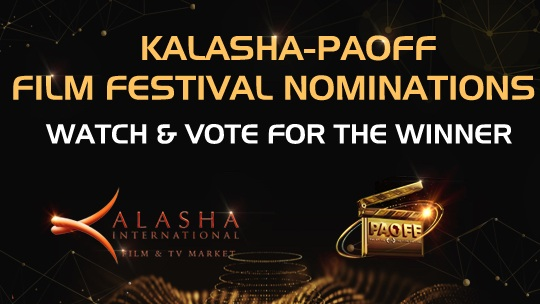
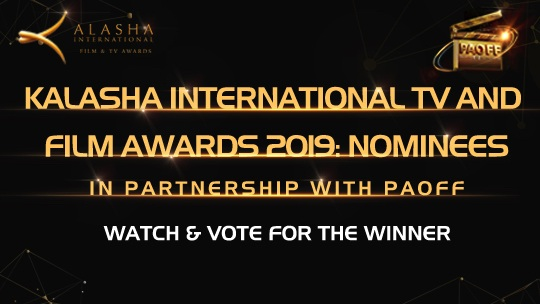
肯尼亚电影节更换banner及about文案

diff --git a/languages/fy.js b/languages/fy.js
@@ -14,15 +14,15 @@ export default {
     vote_h5_2: 'Regardez des vidéos sur l\'application StarTimes ON maintenant pour découvrir de nouveaux horizons.',
     notnow_btn: 'PAS MAINTENANT',
     about_btn: 'À propos',
-    about: '<p>Les prix internationaux du film et de la télévision en ligne KALASHA-PAOFF sont co-animés par la Kenya Film Commission et StarTimes, qui invitent tous les utilisateurs en ligne à voter pour leurs favoris via StarTimes ON, la seule application de vote en ligne pour les prix.</p><p>Soutenez les vedettes et les projets que vous aimez, pour renforcez la culture africaine que vous reconnaitrez dans cet incroyable événement. </p>',
+    about: '<P>Kalasha International Film and TV awards 2019 is organised by Kenya Film Commission in conjunction with StarTimes Kenya. Members of the public are encouraged to watch and vote for their favorite films, documentaries, actors, actresses and producers on StarTimes ON, the only screening and voting platform for the awards. Let\'s all support our film industry through voting for our favorite nominees!</P><P>Voting Rule:</P><P>StarTimes ON will be the only online voting platform for the awards. To cast a vote for either award, you must download & install StarTimes ON mobile app.</P><P>You can only vote once per category.</P><P>Voting Period: Voting for the Awards begins at 0:00 a.m. GMT on Nov 1, 2019, and ends at 12:59 p.m. GMT on Nov 30, 2019.</P>',
     vote_succ1: 'Vous avez voté !',
     vote_h5_download: 'Télécharger l\'application maintenant?（12M）',
     ok_btn: 'OK',
     share_btn: 'PARTAGER',
-    share_title:'KALASHA-PAOFF Film Festival',
-    share_content:'J\'ai déjà voté, clique pour ME REJOINDRE !',
-    close:'CLOSE',
-    already_voted:'Vous avez voté pour ce prix.',
+    share_title: 'KALASHA-PAOFF Film Festival',
+    share_content: 'J\'ai déjà voté, clique pour ME REJOINDRE !',
+    close: 'CLOSE',
+    already_voted: 'Vous avez voté pour ce prix.',
 
 
     post_share_title: 'StarTimes ON vous ouvre un nouveau monde !',

diff --git a/languages/sy.js b/languages/sy.js
@@ -14,15 +14,15 @@ export default {
     vote_h5_2: 'Angalia video kwenye StarTimes ON app sasa, ikufungulie ulimwengu mpya.',
     notnow_btn: 'SIO SASA',
     about_btn: 'Kuhusu',
-    about: '<p>KALASHA-PAOFF Filamu ya kimataifa ya mtandaoni na Tuzo ya TV inaendeshwa na-Kenya Film Commission na StarTimes, ambapo inawaalika watumiaji wote wa mtandaoni kuwapigia kura wanaowapenda kwenye StarTimes ON, ni tuzo za maombi ya mtandaoni pekee. </p><p>Tuwaunge mkono nyota na chipukizi unaowapenda,kuuwezesha utamaduni wa Kiafrika unaoutambua katika tukio hili la ajabu. </p>',
+    about: '<P>Kalasha International Film and TV awards 2019 is organised by Kenya Film Commission in conjunction with StarTimes Kenya. Members of the public are encouraged to watch and vote for their favorite films, documentaries, actors, actresses and producers on StarTimes ON, the only screening and voting platform for the awards. Let\'s all support our film industry through voting for our favorite nominees!</P><P>Voting Rule:</P><P>StarTimes ON will be the only online voting platform for the awards. To cast a vote for either award, you must download & install StarTimes ON mobile app.</P><P>You can only vote once per category.</P><P>Voting Period: Voting for the Awards begins at 0:00 a.m. GMT on Nov 1, 2019, and ends at 12:59 p.m. GMT on Nov 30, 2019.</P>',
     vote_succ1: 'Umepiga kura!',
     vote_h5_download: 'Pakua apk sasa? (12 M)',
     ok_btn: 'SAWA',
     share_btn: 'SHIRIKISHA',
-    share_title:'KALASHA-PAOFF Film Festival',
-    share_content:'Nimepiga kura tayari, bonyeza ili UJIUNGE NAMI!',
-    close:'CLOSE',
-    already_voted:'Umepiga kura kwa tuzo hii.',
+    share_title: 'KALASHA-PAOFF Film Festival',
+    share_content: 'Nimepiga kura tayari, bonyeza ili UJIUNGE NAMI!',
+    close: 'CLOSE',
+    already_voted: 'Umepiga kura kwa tuzo hii.',
 
     post_share_title: 'StarTimes ON inafungua dunia mpya!',
     // deeplink

diff --git a/languages/en.js b/languages/en.js
@@ -14,15 +14,15 @@ export default {
     vote_h5_2: 'Open StarTimes ON App watch now, and explore more interesting. ',
     notnow_btn: 'NOT NOW',
     about_btn: 'ABOUT',
-    about: '<P>KALASHA-PAOFF International Online Film and TV Awards is co-hosted by Kenya Film Commission and StarTimes, which invites all online users to vote for your favourites via StarTimes ON, the only online voting application for the awards. </P><P>Let\'s support the stars and entries you like, empower the African culture you recognize in this incredible event.</P>',
+    about: '<P>Kalasha International Film and TV awards 2019 is organised by Kenya Film Commission in conjunction with StarTimes Kenya. Members of the public are encouraged to watch and vote for their favorite films, documentaries, actors, actresses and producers on StarTimes ON, the only screening and voting platform for the awards. Let\'s all support our film industry through voting for our favorite nominees!</P><P>Voting Rule:</P><P>StarTimes ON will be the only online voting platform for the awards. To cast a vote for either award, you must download & install StarTimes ON mobile app.</P><P>You can only vote once per category.</P><P>Voting Period: Voting for the Awards begins at 0:00 a.m. GMT on Nov 1, 2019, and ends at 12:59 p.m. GMT on Nov 30, 2019.</P>',
     vote_succ1: 'You\'ve voted!',
     vote_h5_download: 'Download apk now?（12M）',
     ok_btn: 'OK',
     share_btn: 'SHARE',
-    share_title:'KALASHA-PAOFF Film Festival',
-    share_content:'I\'ve already voted, click to JOIN ME!',
-    close:'CLOSE',
-    already_voted:'You have voted for this awards',
+    share_title: 'KALASHA-PAOFF Film Festival',
+    share_content: 'I\'ve already voted, click to JOIN ME!',
+    close: 'CLOSE',
+    already_voted: 'You have voted for this awards',
 
 
     post_share_title: 'StarTimes ON opens up a new world!',

diff --git a/languages/py.js b/languages/py.js
@@ -14,15 +14,15 @@ export default {
     vote_h5_2: 'Assista a vídeos no aplicativo StarTimes ON agora, ele abrirá um novo mundo para si.',
     notnow_btn: 'AGORA NÃO',
     about_btn: 'Acerca de',
-    about: '<p>Kalasha-PAOFF International Online Film and TV Awards é co-organizado pela Kenya Film Commission e StarTimes, que convida todos os usuários on-line para votar em seus favoritos via StarTimes ON, o único pedido de votação on-line para os prêmios. </p>',
+    about: '<P>Kalasha International Film and TV awards 2019 is organised by Kenya Film Commission in conjunction with StarTimes Kenya. Members of the public are encouraged to watch and vote for their favorite films, documentaries, actors, actresses and producers on StarTimes ON, the only screening and voting platform for the awards. Let\'s all support our film industry through voting for our favorite nominees!</P><P>Voting Rule:</P><P>StarTimes ON will be the only online voting platform for the awards. To cast a vote for either award, you must download & install StarTimes ON mobile app.</P><P>You can only vote once per category.</P><P>Voting Period: Voting for the Awards begins at 0:00 a.m. GMT on Nov 1, 2019, and ends at 12:59 p.m. GMT on Nov 30, 2019.</P>',
     vote_succ1: 'Votou com sucesso!',
     vote_h5_download: 'Descarregar apk agora? (12M)',
     ok_btn: 'OK',
     share_btn: 'PARTILHAR',
-    share_title:'KALASHA-PAOFF Film Festival',
-    share_content:'Eu já votei, clique para se juntar a mim!',
-    close:'CLOSE',
-    already_voted:'Você votou neste prêmio.',
+    share_title: 'KALASHA-PAOFF Film Festival',
+    share_content: 'Eu já votei, clique para se juntar a mim!',
+    close: 'CLOSE',
+    already_voted: 'Você votou neste prêmio.',
 
     post_share_title: 'A StarTimes ON abre um  novo mundo!',
     // deeplink
